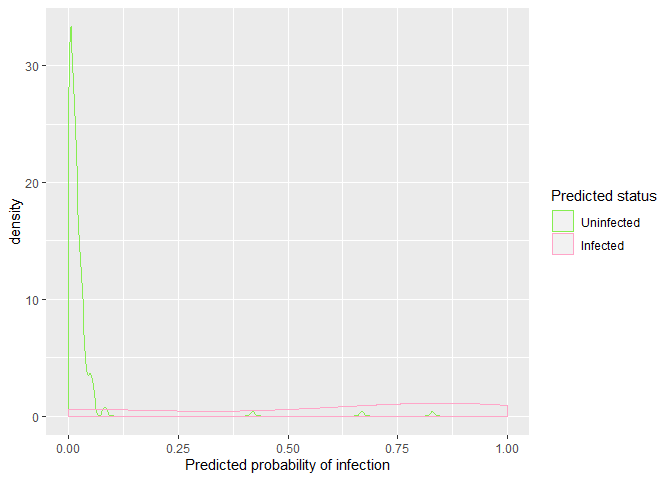
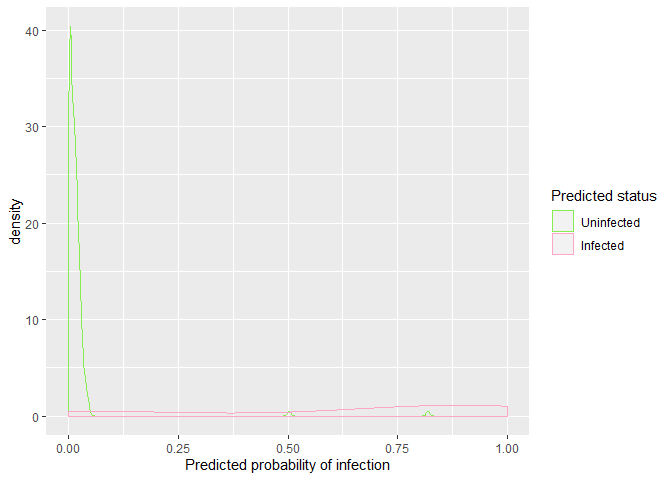
JAGS model has been checked and attempts made at making computation as fast as possible

diff --git a/README.md b/README.md
@@ -308,7 +308,7 @@ compiled_model <- compile_JAGS(sfd, n_chains = 4)
     ## Graph information:
     ##    Observed stochastic nodes: 32
     ##    Unobserved stochastic nodes: 196
-    ##    Total graph size: 2075
+    ##    Total graph size: 1914
     ## 
     ## Initializing model
 
@@ -347,18 +347,18 @@ param
 ```
 
     ## # A tibble: 80 x 9
-    ##    .chain .iteration .draw    Se    Sp  tau2 theta.1 theta.2  theta.3
-    ##     <int>      <int> <int> <dbl> <dbl> <dbl>   <dbl>   <dbl>    <dbl>
-    ##  1      1          1     1 0.913 0.972 0.874   -3.69   2.58   0.316  
-    ##  2      1          2     2 0.927 0.977 0.821   -3.26  -1.24   0.766  
-    ##  3      1          3     3 0.775 0.981 0.973   -4.77  -2.67  -3.54   
-    ##  4      1          4     4 0.789 0.964 0.964   -4.48  -0.828  0.00501
-    ##  5      1          5     5 0.656 0.979 0.974   -3.57  -0.413  0.116  
-    ##  6      1          6     6 0.911 0.985 0.965   -4.41  -1.24   3.14   
-    ##  7      1          7     7 0.747 0.986 0.969   -5.19  -0.789  4.01   
-    ##  8      1          8     8 0.821 0.989 0.970   -4.31   0.278  1.07   
-    ##  9      1          9     9 0.697 0.970 0.981   -6.19   0.937 -0.0592 
-    ## 10      1         10    10 0.947 0.954 0.969   -3.92   0.692  1.29   
+    ##    .chain .iteration .draw    Se    Sp  tau2 theta.1 theta.2 theta.3
+    ##     <int>      <int> <int> <dbl> <dbl> <dbl>   <dbl>   <dbl>   <dbl>
+    ##  1      1          1     1 0.854 0.984 0.861   -4.39   3.86   -2.82 
+    ##  2      1          2     2 0.854 0.988 0.908   -3.59   0.534   0.876
+    ##  3      1          3     3 0.805 0.982 0.934   -4.06  -0.320  -3.62 
+    ##  4      1          4     4 0.940 0.978 0.968   -4.50  -3.96   -0.239
+    ##  5      1          5     5 0.837 0.981 0.961   -4.61  -2.49   -2.12 
+    ##  6      1          6     6 0.882 0.976 0.932   -3.31   1.32   -1.17 
+    ##  7      1          7     7 0.849 0.988 0.949   -4.53   3.63   -2.11 
+    ##  8      1          8     8 0.780 0.957 0.942   -3.32  -1.13   -0.233
+    ##  9      1          9     9 0.956 0.972 0.963   -4.46  -1.62   -1.33 
+    ## 10      1         10    10 0.764 0.967 0.949   -4.57   2.18    0.274
     ## # … with 70 more rows
 
 The columns of this dataset are:
@@ -398,16 +398,16 @@ proba_inf
     ## # Groups:   herd_id [3]
     ##    .chain .iteration .draw herd_id predicted_proba predicted_status
     ##     <int>      <int> <int>   <int>           <dbl>            <dbl>
-    ##  1      1          1     1       1         0.0243                 0
-    ##  2      1          1     1       2         0.00318                0
-    ##  3      1          1     1       3         0.0243                 0
-    ##  4      1          2     2       1         0.0370                 0
-    ##  5      1          2     2       2         0.00242                0
-    ##  6      1          2     2       3         0.0370                 0
-    ##  7      1          3     3       1         0.00844                0
-    ##  8      1          3     3       2         0.00134                0
-    ##  9      1          3     3       3         0.00844                0
-    ## 10      1          4     4       1         0.0112                 0
+    ##  1      1          1     1       1         0.0122                 0
+    ##  2      1          1     1       2         0.00313                0
+    ##  3      1          1     1       3         0.0122                 0
+    ##  4      1          2     2       1         0.0268                 0
+    ##  5      1          2     2       2         0.00437                0
+    ##  6      1          2     2       3         0.0268                 0
+    ##  7      1          3     3       1         0.0169                 0
+    ##  8      1          3     3       2         0.00325                0
+    ##  9      1          3     3       3         0.0169                 0
+    ## 10      1          4     4       1         0.0110                 0
     ## # … with 230 more rows
 
 The first columns of this dataset are the same as above. The following
